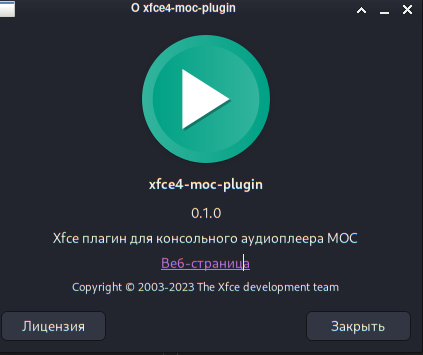
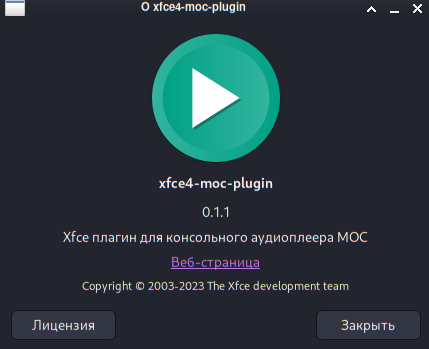
Version 0.1.1 (Добавление новых опций)

diff --git a/panel-plugin/plugin-dialogs.c b/panel-plugin/plugin-dialogs.c
@@ -10,7 +10,7 @@
 
 
 
-#define PACKAGE_VERSION "0.1.0"
+#define PACKAGE_VERSION "0.1.1"
 #define PACKAGE_NAME "xfce4-moc-plugin"
 
 
@@ -39,6 +39,29 @@ static void set_last_dir_mocp(GtkWidget *widget, struct MocConfig *config) {
     FILE *fp = fopen(config->pathFileLastDir, "w");
     fprintf(fp, "%s", config->lastDir);
     fclose(fp);
+}
+
+static void set_moc_repeat(GtkWidget *chooser, struct MocConfig *config) {
+    config->repeat = gtk_toggle_button_get_active(GTK_TOGGLE_BUTTON(chooser));
+}
+
+static void set_moc_shuffle(GtkWidget *chooser, struct MocConfig *config) {
+    config->shuffle = gtk_toggle_button_get_active(GTK_TOGGLE_BUTTON(chooser));
+}
+
+static void set_moc_autonext(GtkWidget *chooser, struct MocConfig *config) {
+    config->autonext = gtk_toggle_button_get_active(GTK_TOGGLE_BUTTON(chooser));
+}
+
+
+static GtkWidget *setup_chooser_toggle_button(GtkWidget *grid, gint top, gboolean active, const gchar *label) {
+    GtkWidget *chooser = gtk_check_button_new();
+    gtk_toggle_button_set_active(GTK_TOGGLE_BUTTON(chooser), active);
+
+    new_label (GTK_GRID (grid), top, label, chooser);
+    gtk_grid_attach (GTK_GRID (grid), chooser, 1, top, 1, 1);
+
+    return chooser;
 }
 
 
@@ -81,6 +104,21 @@ void moc_configure_create(XfcePanelPlugin *plugin, struct MocConfig *config) {
     gtk_grid_attach (GTK_GRID (grid), entry, 1, 3, 1, 1);
 
 
+    label = gtk_label_new (NULL);
+    gtk_label_set_markup (GTK_LABEL (label), _("<b>At startup enable...</b>"));
+    gtk_widget_set_halign(label, GTK_ALIGN_START);
+    gtk_widget_set_valign(label, GTK_ALIGN_CENTER);
+    gtk_grid_attach (GTK_GRID (grid), label, 0, 4, 1, 1);
+
+    chooser = setup_chooser_toggle_button(grid, 5, config->repeat, _("Repeat"));
+    g_signal_connect(G_OBJECT(chooser), "clicked", G_CALLBACK(set_moc_repeat), config);
+
+    chooser = setup_chooser_toggle_button(grid, 6, config->shuffle, _("Shuffle"));
+    g_signal_connect(G_OBJECT(chooser), "clicked", G_CALLBACK(set_moc_shuffle), config);
+
+    chooser = setup_chooser_toggle_button(grid, 7, config->autonext, _("Autonext"));
+    g_signal_connect(G_OBJECT(chooser), "clicked", G_CALLBACK(set_moc_autonext), config);
+
 
     gtk_widget_show_all(dlg);
 }
@@ -98,9 +136,3 @@ void moc_show_about(XfcePanelPlugin *plugin, struct MocConfig *config) {
       "copyright", "Copyright \302\251 2003-2023 The Xfce development team",
       "author", "Ktoto <ktoto@ktoto.org>", NULL);
 }
-
-
-
-
-
-

diff --git a/panel-plugin/plugin.c b/panel-plugin/plugin.c
@@ -49,7 +49,13 @@ void plugin_save(XfcePanelPlugin *plugin, struct MocConfig *config) {
 
     if (G_LIKELY(rc != NULL)) {
         g_print("%s\n", config->commandRunMocp);
+
         xfce_rc_write_entry(rc, "command-run-mocp", config->commandRunMocp);
+
+        xfce_rc_write_bool_entry(rc, "repeat", config->repeat);
+        xfce_rc_write_bool_entry(rc, "shuffle", config->shuffle);
+        xfce_rc_write_bool_entry(rc, "autonext", config->autonext);
+
         xfce_rc_close(rc);
     }
 }
@@ -69,6 +75,10 @@ static void plugin_read(struct MocConfig *config) {
         if (G_LIKELY (rc != NULL)) {
             command = xfce_rc_read_entry(rc, "command-run-mocp", "xfce4-terminal -e mocp");
             strcpy(config->commandRunMocp, (const char*)command);
+            config->repeat = xfce_rc_read_bool_entry(rc, "repeat", FALSE);
+            config->shuffle = xfce_rc_read_bool_entry(rc, "shuffle", FALSE);
+            config->autonext = xfce_rc_read_bool_entry(rc, "autonext", TRUE);
+
             xfce_rc_close (rc);
 
             return;
@@ -76,6 +86,10 @@ static void plugin_read(struct MocConfig *config) {
     }
 
     strcpy(config->commandRunMocp, "xfce4-terminal -e mocp");
+
+    config->repeat = FALSE;
+    config->shuffle = FALSE;
+    config->autonext = TRUE;
 }
 
 
@@ -137,8 +151,10 @@ static void constructor(XfcePanelPlugin *plugin)  {
     
     GtkWidget *run_server_layout = gtk_menu_item_new_with_label (_("Start the MOC server"));
     GtkWidget *open_launch_layout = gtk_menu_item_new_with_label(_("Open MOC"));
+    GtkWidget *run_server_playlist_layout = gtk_menu_item_new_with_label (_("Play playlist"));
 
     setup_menu_item(plugin, run_server_layout, run_server_mocp, config);
+    setup_menu_item(plugin, run_server_playlist_layout, run_server_mocp_playlist, config);
     setup_menu_item(plugin, open_launch_layout, run_tui_mocp, config);
 
     gtk_widget_show_all(window);

diff --git a/panel-plugin/commands.c b/panel-plugin/commands.c
@@ -96,14 +96,45 @@ gboolean update_info(struct UpdateData *data) {
     return TRUE;
 }
 
+static void exec_command_set_option_moc(gboolean option, char *option_str) {
+    char command[512];
+    
+    if (option) {
+        snprintf(command, sizeof command, "%s%s%s", MOCP_COMMAND, "-o ", option_str);
+    } else {
+        snprintf(command, sizeof command, "%s%s%s", MOCP_COMMAND, "-u ", option_str);
+    }
+
+    system(command);
+}
+
+static void init_moc(struct MocConfig *config) {
+    exec_command_set_option_moc(config->repeat, "repeat");
+
+    exec_command_set_option_moc(config->shuffle, "shuffle");
+
+    exec_command_set_option_moc(config->autonext, "autonext");
+}
+
 void run_tui_mocp(GtkWidget *widget, struct MocConfig *config) {
+    init_moc(config);
+
     g_spawn_command_line_async(config->commandRunMocp, NULL);
 }
 
 void run_server_mocp(GtkWidget *widget, struct MocConfig *config) {
+    init_moc(config);
+
     char command[512];
     snprintf(command, sizeof command, "%s%s%s%s", MOCP_COMMAND, "-l ", config->lastDir, "/*");
 
     system(MOCP_COMMAND "-S");
     system(command);
+}
+
+void run_server_mocp_playlist(GtkWidget *widget, struct MocConfig *config) {
+    init_moc(config);
+
+    system(MOCP_COMMAND "-S");
+    system(MOCP_COMMAND "-p");
 }

diff --git a/panel-plugin/commands.h b/panel-plugin/commands.h
@@ -11,6 +11,8 @@ void run_tui_mocp(GtkWidget *widget, struct MocConfig *config);
 
 void run_server_mocp(GtkWidget *widget, struct MocConfig *config);
 
+void run_server_mocp_playlist(GtkWidget *widget, struct MocConfig *config);
+
 G_END_DECLS
 
 #endif

diff --git a/panel-plugin/plugin.h b/panel-plugin/plugin.h
@@ -19,6 +19,9 @@ struct MocConfig {
     char lastDir[100];
     char pathFileLastDir[100];
     char commandRunMocp[100];
+    gboolean repeat;
+    gboolean shuffle;
+    gboolean autonext;
 };
 
 struct MocInfo {
